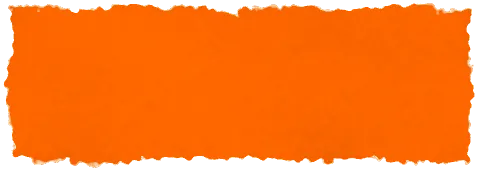
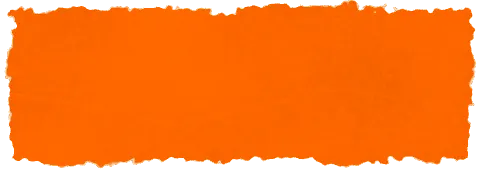
V5: Schwarz/Creme mit Farb-Themes Gelb, Grün, Orange per Klick auf den Stern

Changed region(s): [[0.0, 0.0, 1.0, 1.0], [0.9688, 0.7059, 1.0, 0.8824]]

diff --git a/index.html b/index.html
@@ -10,7 +10,7 @@
 <link rel="icon" type="image/png" sizes="512x512" href="/icon-512.png">
 <link rel="apple-touch-icon" href="/apple-touch-icon.png">
 <link rel="preload" href="/fonts/archivo-latin.woff2" as="font" type="font/woff2" crossorigin>
-<link rel="stylesheet" href="/css/style.css?v=36">
+<link rel="stylesheet" href="/css/style.css?v=42">
 </head>
 <body>
 
@@ -24,12 +24,12 @@
   <section class="hero">
     <h1 class="name">
       <span>Niklas</span>
-      <svg class="name-star" aria-hidden="true"><use href="#star"/></svg>
+      <button class="name-star" type="button" aria-label="Farbe wechseln: Gelb, Grün, Orange"><svg aria-hidden="true"><use href="#star"/></svg></button>
       <span>König</span>
     </h1>
     <a class="face-link" href="https://unsplash.com/@nottwentyseven" rel="noopener" aria-label="Niklas König auf Unsplash">
       <figure class="face">
-        <img class="back" src="/img/paper/face-back.webp" width="1200" height="1200" alt="">
+        <img class="back" src="/img/paper/face-back-y.webp" data-themed="face-back" width="1200" height="1200" alt="">
         <img class="photo" src="/img/niklas-1240.webp" width="1240" height="1240" fetchpriority="high" alt="Niklas König">
         <img class="window" src="/img/paper/face-window.webp" width="1200" height="1200" alt="">
         <i class="tape masking" style="--l:-4%;--t:5%;--w:26%;--r:-36deg;--ti:url(/img/tape/m1.webp)"></i>
@@ -43,7 +43,7 @@
   <!-- ===== Plakat aus Heftausschnitten ===== -->
   <section class="wheat">
     <div class="poster">
-      <img class="poster-back" src="/img/paper/poster-back.webp" width="1300" height="820" alt="">
+      <img class="poster-back" src="/img/paper/poster-back-y.webp" data-themed="poster-back" width="1300" height="820" alt="">
       <img class="poster-sheet" src="/img/assets/notebook.webp" width="2000" height="1592" alt="">
       <h2 class="ransom" aria-label="Shoot your shot.">
         <span class="row big" aria-hidden="true">
@@ -66,26 +66,26 @@
     <!-- Schilder -->
     <div class="pair">
       <figure class="scrap print" style="--c:2/6;--mt:20%;--r:-1.8deg"><img src="/img/svIlYNz19pQ-1080.webp" srcset="/img/svIlYNz19pQ-640.webp 640w, /img/svIlYNz19pQ-1080.webp 1080w, /img/svIlYNz19pQ-1600.webp 1600w" sizes="(max-width:760px) 62vw, 29vw" width="900" height="1350" loading="lazy" decoding="async" alt="Silhouette aus den Wörtern Liebe und Hass auf dunklem Grund"><i class="grain" aria-hidden="true"></i><i class="sleeve" aria-hidden="true"></i><i class="tape masking t" style="--ti:url(/img/tape/m4.webp)"></i></figure>
-      <figure class="scrap print" style="--c:7/12;--r:2.4deg"><i class="back fo" style="--bx:5%;--by:4%;--br:-5deg" aria-hidden="true"></i><img src="/img/S_MXibn6oHI-1080.webp" srcset="/img/S_MXibn6oHI-640.webp 640w, /img/S_MXibn6oHI-1080.webp 1080w, /img/S_MXibn6oHI-1600.webp 1600w" sizes="(max-width:760px) 62vw, 37vw" width="900" height="1350" loading="lazy" decoding="async" alt="Schild mit der Aufschrift Frit Stop über Schachbrettmuster"><i class="grain" aria-hidden="true"></i><i class="crease" style="--cr:url(/img/assets/crease-1.webp);--co:.75;--cp:30% 20%" aria-hidden="true"></i><i class="tape masking tr" style="--ti:url(/img/tape/m1.webp)"></i></figure>
+      <figure class="scrap print" style="--c:7/12;--r:2.4deg"><i class="back fw" style="--bx:5%;--by:4%;--br:-5deg" aria-hidden="true"></i><img src="/img/S_MXibn6oHI-1080.webp" srcset="/img/S_MXibn6oHI-640.webp 640w, /img/S_MXibn6oHI-1080.webp 1080w, /img/S_MXibn6oHI-1600.webp 1600w" sizes="(max-width:760px) 62vw, 37vw" width="900" height="1350" loading="lazy" decoding="async" alt="Schild mit der Aufschrift Frit Stop über Schachbrettmuster"><i class="grain" aria-hidden="true"></i><i class="crease" style="--cr:url(/img/assets/crease-1.webp);--co:.75;--cp:30% 20%" aria-hidden="true"></i><i class="tape masking tr" style="--ti:url(/img/tape/m1.webp)"></i></figure>
     </div>
 
     <!-- Dinge, die sich drehen -->
     <div class="pair quad">
       <figure class="scrap w dogear" style="--c:1/9;--r:1deg"><img src="/img/wWiVD-IsDns-1080.webp" srcset="/img/wWiVD-IsDns-640.webp 640w, /img/wWiVD-IsDns-1080.webp 1080w, /img/wWiVD-IsDns-1600.webp 1600w" sizes="(max-width:760px) 100vw, 59vw" width="900" height="675" loading="lazy" decoding="async" alt="Blaue Armbanduhr mit Metallarmband"><i class="grain" aria-hidden="true"></i><i class="crease" style="--cr:url(/img/assets/crease-3.webp);--co:.6;--cp:60% 40%" aria-hidden="true"></i><i class="tape masking t" style="left:64%;--ti:url(/img/tape/m3.webp)"></i></figure>
-      <figure class="scrap" style="--c:9/13;--mt:9%;--r:2.2deg"><i class="back fc" style="--bx:6%;--by:5%;--br:4deg" aria-hidden="true"></i><img src="/img/lqy07Ffdkoc-1080.webp" srcset="/img/lqy07Ffdkoc-640.webp 640w, /img/lqy07Ffdkoc-1080.webp 1080w, /img/lqy07Ffdkoc-1600.webp 1600w" sizes="(max-width:760px) 62vw, 29vw" width="900" height="1200" loading="lazy" decoding="async" alt="Tonbandgerät mit Spulen"><i class="grain" aria-hidden="true"></i><i class="crease" style="--cr:url(/img/assets/crease-2.webp);--co:.65;--cp:20% 70%" aria-hidden="true"></i><i class="tape orange t" style="--ti:url(/img/tape/o1.webp)"></i></figure>
+      <figure class="scrap" style="--c:9/13;--mt:9%;--r:2.2deg"><i class="back fc" style="--bx:6%;--by:5%;--br:4deg" aria-hidden="true"></i><img src="/img/lqy07Ffdkoc-1080.webp" srcset="/img/lqy07Ffdkoc-640.webp 640w, /img/lqy07Ffdkoc-1080.webp 1080w, /img/lqy07Ffdkoc-1600.webp 1600w" sizes="(max-width:760px) 62vw, 29vw" width="900" height="1200" loading="lazy" decoding="async" alt="Tonbandgerät mit Spulen"><i class="grain" aria-hidden="true"></i><i class="crease" style="--cr:url(/img/assets/crease-2.webp);--co:.65;--cp:20% 70%" aria-hidden="true"></i><i class="tape masking t" style="--ti:url(/img/tape/m3.webp)"></i></figure>
       <figure class="scrap frame fc" style="--c:2/6;--row:2;--mt:7%;--r:-2.4deg"><img src="/img/yNxP-sdPEx0-1080.webp" srcset="/img/yNxP-sdPEx0-640.webp 640w, /img/yNxP-sdPEx0-1080.webp 1080w, /img/yNxP-sdPEx0-1600.webp 1600w" sizes="(max-width:760px) 62vw, 29vw" width="900" height="1350" loading="lazy" decoding="async" alt="Flugzeugpropeller im Gegenlicht, schwarzweiß"><i class="grain" aria-hidden="true"></i><i class="tape masking t" style="--ti:url(/img/tape/m2.webp)"></i></figure>
-      <figure class="scrap w" style="--c:7/12;--row:2;--mt:-5%;--r:-3deg;--z:2"><i class="back fo" style="--bx:-3%;--by:6%;--br:4deg" aria-hidden="true"></i><img src="/img/iYcURjI3aZ8-1080.webp" srcset="/img/iYcURjI3aZ8-640.webp 640w, /img/iYcURjI3aZ8-1080.webp 1080w, /img/iYcURjI3aZ8-1600.webp 1600w" sizes="(max-width:760px) 100vw, 37vw" width="900" height="675" loading="lazy" decoding="async" alt="Euromünze mit Eule auf schwarzem Grund"><i class="grain" aria-hidden="true"></i><i class="sleeve s2" aria-hidden="true"></i></figure>
+      <figure class="scrap w" style="--c:7/12;--row:2;--mt:-5%;--r:-3deg;--z:2"><i class="back fc" style="--bx:-3%;--by:6%;--br:4deg" aria-hidden="true"></i><img src="/img/iYcURjI3aZ8-1080.webp" srcset="/img/iYcURjI3aZ8-640.webp 640w, /img/iYcURjI3aZ8-1080.webp 1080w, /img/iYcURjI3aZ8-1600.webp 1600w" sizes="(max-width:760px) 100vw, 37vw" width="900" height="675" loading="lazy" decoding="async" alt="Euromünze mit Eule auf schwarzem Grund"><i class="grain" aria-hidden="true"></i><i class="sleeve s2" aria-hidden="true"></i></figure>
     </div>
 
     <!-- Autos -->
     <div class="pair">
-      <figure class="scrap" style="--c:1/7;--r:-2deg"><i class="back fo" style="--bx:-4%;--by:3%;--br:-3deg" aria-hidden="true"></i><img src="/img/kGuBcBm0E1g-1080.webp" srcset="/img/kGuBcBm0E1g-640.webp 640w, /img/kGuBcBm0E1g-1080.webp 1080w, /img/kGuBcBm0E1g-1600.webp 1600w" sizes="(max-width:760px) 62vw, 44vw" width="900" height="1200" loading="lazy" decoding="async" alt="Rotes Mustang-Cabrio neben einem grauen Auto"><i class="grain" aria-hidden="true"></i><i class="crease" style="--cr:url(/img/assets/crease-2.webp);--co:.7;--cp:70% 30%" aria-hidden="true"></i><i class="tape masking t" style="--ti:url(/img/tape/m4.webp)"></i></figure>
-      <figure class="scrap tear" style="--c:8/12;--mt:4%;--r:2.4deg"><i class="core" aria-hidden="true"></i><img src="/img/Gth9FScaFCk-1080.webp" srcset="/img/Gth9FScaFCk-640.webp 640w, /img/Gth9FScaFCk-1080.webp 1080w, /img/Gth9FScaFCk-1600.webp 1600w" sizes="(max-width:760px) 62vw, 29vw" width="900" height="1350" loading="lazy" decoding="async" alt="Cadillac-Heckflosse"><i class="grain" aria-hidden="true"></i><i class="crease" style="--cr:url(/img/assets/crease-1.webp);--co:.6;--cp:40% 80%" aria-hidden="true"></i><i class="tape orange t" style="--ti:url(/img/tape/o2.webp)"></i></figure>
+      <figure class="scrap" style="--c:1/7;--r:-2deg"><i class="back fc" style="--bx:-4%;--by:3%;--br:-3deg" aria-hidden="true"></i><img src="/img/kGuBcBm0E1g-1080.webp" srcset="/img/kGuBcBm0E1g-640.webp 640w, /img/kGuBcBm0E1g-1080.webp 1080w, /img/kGuBcBm0E1g-1600.webp 1600w" sizes="(max-width:760px) 62vw, 44vw" width="900" height="1200" loading="lazy" decoding="async" alt="Rotes Mustang-Cabrio neben einem grauen Auto"><i class="grain" aria-hidden="true"></i><i class="crease" style="--cr:url(/img/assets/crease-2.webp);--co:.7;--cp:70% 30%" aria-hidden="true"></i><i class="tape masking t" style="--ti:url(/img/tape/m4.webp)"></i></figure>
+      <figure class="scrap tear" style="--c:8/12;--mt:4%;--r:2.4deg"><i class="core" aria-hidden="true"></i><img src="/img/Gth9FScaFCk-1080.webp" srcset="/img/Gth9FScaFCk-640.webp 640w, /img/Gth9FScaFCk-1080.webp 1080w, /img/Gth9FScaFCk-1600.webp 1600w" sizes="(max-width:760px) 62vw, 29vw" width="900" height="1350" loading="lazy" decoding="async" alt="Cadillac-Heckflosse"><i class="grain" aria-hidden="true"></i><i class="crease" style="--cr:url(/img/assets/crease-1.webp);--co:.6;--cp:40% 80%" aria-hidden="true"></i><i class="tape masking t" style="--ti:url(/img/tape/m4.webp)"></i></figure>
     </div>
 
     <!-- Fassaden -->
     <div class="pair">
-      <figure class="scrap print" style="--c:2/5;--r:1.6deg"><i class="back grid" style="--bx:-9%;--by:5%;--br:-5deg" aria-hidden="true"></i><img src="/img/XPmTnY4AHtk-1080.webp" srcset="/img/XPmTnY4AHtk-640.webp 640w, /img/XPmTnY4AHtk-1080.webp 1080w, /img/XPmTnY4AHtk-1600.webp 1600w" sizes="(max-width:760px) 62vw, 22vw" width="900" height="1600" loading="lazy" decoding="async" alt="Tauben auf einem Betondach vor blauem Himmel"><i class="grain" aria-hidden="true"></i><i class="crease" style="--cr:url(/img/assets/crease-3.webp);--co:.65;--cp:50% 20%" aria-hidden="true"></i><i class="tape orange t" style="--ti:url(/img/tape/o3.webp)"></i></figure>
+      <figure class="scrap print" style="--c:2/5;--r:1.6deg"><i class="back grid" style="--bx:-9%;--by:5%;--br:-5deg" aria-hidden="true"></i><img src="/img/XPmTnY4AHtk-1080.webp" srcset="/img/XPmTnY4AHtk-640.webp 640w, /img/XPmTnY4AHtk-1080.webp 1080w, /img/XPmTnY4AHtk-1600.webp 1600w" sizes="(max-width:760px) 62vw, 22vw" width="900" height="1600" loading="lazy" decoding="async" alt="Tauben auf einem Betondach vor blauem Himmel"><i class="grain" aria-hidden="true"></i><i class="crease" style="--cr:url(/img/assets/crease-3.webp);--co:.65;--cp:50% 20%" aria-hidden="true"></i><i class="tape masking t" style="--ti:url(/img/tape/m2.webp)"></i></figure>
       <figure class="scrap" style="--c:6/12;--mt:12%;--r:-1.6deg"><i class="back fc" style="--bx:3%;--by:-3%;--br:2.5deg" aria-hidden="true"></i><img src="/img/qIIUsbRZCtw-1080.webp" srcset="/img/qIIUsbRZCtw-640.webp 640w, /img/qIIUsbRZCtw-1080.webp 1080w, /img/qIIUsbRZCtw-1600.webp 1600w" sizes="(max-width:760px) 62vw, 44vw" width="900" height="1200" loading="lazy" decoding="async" alt="Wohnhaus mit roten und weißen Balkonen"><i class="grain" aria-hidden="true"></i><i class="crease" style="--cr:url(/img/assets/crease-1.webp);--co:.6;--cp:80% 60%" aria-hidden="true"></i><i class="staple" style="left:18%;top:2.4%"></i><i class="staple" style="left:74%;top:2.4%"></i></figure>
     </div>
 
@@ -109,6 +109,27 @@
   <a class="end" href="/datenschutz.html">Datenschutz</a>
 </footer>
 
-<script>document.getElementById('y').textContent = new Date().getFullYear();</script>
+<script>
+document.getElementById('y').textContent = new Date().getFullYear();
+// Farb-Theme: Klick auf den Stern wechselt Gelb -> Gruen -> Orange
+(() => {
+  const order = ['y', 'g', 'o'];
+  const root = document.documentElement;
+  const apply = (k) => {
+    root.dataset.theme = k;
+    document.querySelectorAll('[data-themed]').forEach((img) => { img.src = `/img/paper/${img.dataset.themed}-${k}.webp`; });
+  };
+  let k = 'y';
+  try { const saved = localStorage.getItem('nk-theme'); if (order.includes(saved)) k = saved; } catch (e) {}
+  if (k !== 'y') apply(k);
+  // die anderen Boegen vorladen, damit der Wechsel sofort sitzt
+  addEventListener('load', () => order.forEach((t) => ['face-back', 'poster-back', 'label'].forEach((n) => { new Image().src = `/img/paper/${n}-${t}.webp`; })));
+  document.querySelector('.name-star').addEventListener('click', () => {
+    k = order[(order.indexOf(k) + 1) % order.length];
+    apply(k);
+    try { localStorage.setItem('nk-theme', k); } catch (e) {}
+  });
+})();
+</script>
 </body>
 </html>

diff --git a/css/style.css b/css/style.css
@@ -1,4 +1,4 @@
-/* nkoenig.studio V2 — Mixed-Media-Collage: klarer Grund, echtes Papier, Heftausschnitte, #ff6600 */
+/* nkoenig.studio V5 — Mixed-Media-Collage: Schwarz, Creme, Gelb #eac435, Rot als winziger Akzent */
 
 @font-face {
   font-family: "Archivo";
@@ -11,9 +11,10 @@
 }
 
 :root {
-  --o: #ff6600;
+  --o: #eac435;      /* Sprite-Gelb: Sterne, Akzente */
+  --r: #b80c09;      /* Coca-Cola-Rot, nur als Akzent */
   --ink: #0d0d0d;
-  --chalk: #f2eee6;
+  --chalk: #f4fffd;
   --gut: 4vw;
   --fiber: url(/img/tex/fiber.webp);
   --tear: polygon(1.2% 0, 98.6% 0, 100% 9%, 98.9% 21%, 99.6% 33%, 98.4% 46%, 99.8% 58%, 98.7% 71%, 99.5% 84%, 98.2% 100%, 1.6% 100%, 0 88%, 1.3% 76%, .3% 63%, 1.5% 51%, .2% 39%, 1.4% 27%, 0 14%);
@@ -43,7 +44,19 @@ a { color: inherit; }
   font-size: min(9.5vw, 156px); line-height: .82; letter-spacing: -.035em;
   text-transform: uppercase;
 }
-.name-star { width: min(13vw, 210px); height: min(17vw, 270px); fill: var(--o); flex: none; margin: 0 -2.4vw 0 -1.6vw; position: relative; z-index: 2; }
+.name-star {
+  width: min(13vw, 210px); height: min(17vw, 270px); flex: none;
+  margin: 0 -2.4vw 0 -1.6vw; padding: 0; border: 0; background: none;
+  position: relative; z-index: 2; cursor: pointer; color: inherit;
+  -webkit-tap-highlight-color: transparent;
+}
+.name-star svg { width: 100%; height: 100%; fill: var(--o); display: block; transition: transform .45s cubic-bezier(.3,1.6,.5,1), fill .2s; }
+.name-star:hover svg { transform: rotate(18deg) scale(1.04); }
+.name-star:active svg { transform: rotate(45deg) scale(.92); }
+.name-star:focus-visible { outline: 2px solid var(--o); outline-offset: 6px; border-radius: 50%; }
+/* Farb-Themes: Gelb (Standard), Gruen, Orange */
+html[data-theme="g"] { --o: #138a36; }
+html[data-theme="o"] { --o: #ff6600; }
 
 .face-link { display: block; position: relative; z-index: 2; }
 .face-link:focus-visible { outline: 2px solid var(--o); outline-offset: 10px; }
@@ -184,9 +197,7 @@ a { color: inherit; }
 /* echtes gerissenes Papier hinter dem Foto */
 .frame::before { content: ""; position: absolute; inset: -8% -7% -9% -7%; background: center / 100% 100% no-repeat; }
 .frame.w::before { inset: -11% -5% -12% -5%; }
-.frame.fo::before { background-image: url(/img/paper/frame-o-p.webp); }
 .frame.fc::before { background-image: url(/img/paper/frame-c-p.webp); }
-.frame.w.fo::before { background-image: url(/img/paper/frame-o-l.webp); }
 .frame.w.fc::before { background-image: url(/img/paper/frame-c-l.webp); }
 
 /* Abzug in zerkratzter Klarsichtfolie: schwarz = durchsichtig */
@@ -202,10 +213,9 @@ a { color: inherit; }
   transform: translate(var(--bx, 0), var(--by, 0)) rotate(var(--br, 0deg));
   filter: drop-shadow(0 6px 10px rgba(0,0,0,.35));
 }
-.back.fo { background-image: url(/img/paper/frame-o-p.webp); }
 .back.fc { background-image: url(/img/paper/frame-c-p.webp); }
-.w .back.fo { background-image: url(/img/paper/frame-o-l.webp); inset: -10% -5% -11% -5%; }
 .w .back.fc { background-image: url(/img/paper/frame-c-l.webp); inset: -10% -5% -11% -5%; }
+.back.fw { background-image: url(/img/paper/frame-w-p.webp); }
 .w .back.fw { background-image: url(/img/paper/frame-w-l.webp); inset: -10% -5% -11% -5%; }
 .back.grid { background-image: url(/img/assets/grid.webp); inset: -6% -22% -10% -14%; }
 /* ... auf dem Foto echte Knitterfalten (wie Ebenenmodus "Weiches Licht") ... */
@@ -260,7 +270,7 @@ a { color: inherit; }
   background: center / 100% 100% no-repeat;
 }
 .foot .mid::before { z-index: -1; background-image: url(/img/paper/label-c.webp); filter: drop-shadow(0 2px 2px rgba(0,0,0,.4)); }
-.foot .mid::after { z-index: -2; inset: -1px -3px -2px -1px; background-image: url(/img/paper/label-o.webp); transform: translate(7px, 5px) rotate(6.5deg); filter: drop-shadow(0 3px 4px rgba(0,0,0,.45)); }
+.foot .mid::after { z-index: -2; inset: -1px -3px -2px -1px; background-image: url(/img/paper/label-y.webp); transform: translate(7px, 5px) rotate(6.5deg); filter: drop-shadow(0 3px 4px rgba(0,0,0,.45)); }
 .foot .mid:hover { color: var(--ink); transform: rotate(0deg) translateY(-2px); }
 .foot a:hover { color: var(--o); }
 
@@ -310,3 +320,6 @@ a { color: inherit; }
 @media (prefers-reduced-motion: reduce) {
   .ransom img { animation: none; }
 }
+
+html[data-theme="g"] .foot .mid::after { background-image: url(/img/paper/label-g.webp); }
+html[data-theme="o"] .foot .mid::after { background-image: url(/img/paper/label-o.webp); }

diff --git a/datenschutz.html b/datenschutz.html
@@ -7,7 +7,7 @@
 <meta name="robots" content="noindex">
 <link rel="icon" href="/favicon.ico" sizes="any">
 <link rel="apple-touch-icon" href="/apple-touch-icon.png">
-<link rel="stylesheet" href="/css/style.css?v=36">
+<link rel="stylesheet" href="/css/style.css?v=42">
 </head>
 <body>
 <svg width="0" height="0" style="position:absolute" aria-hidden="true"><filter id="press"><feTurbulence type="fractalNoise" baseFrequency="0.9" numOctaves="2" seed="3" result="n"/><feDisplacementMap in="SourceGraphic" in2="n" scale="3.2" xChannelSelector="R" yChannelSelector="G"/></filter></svg>
